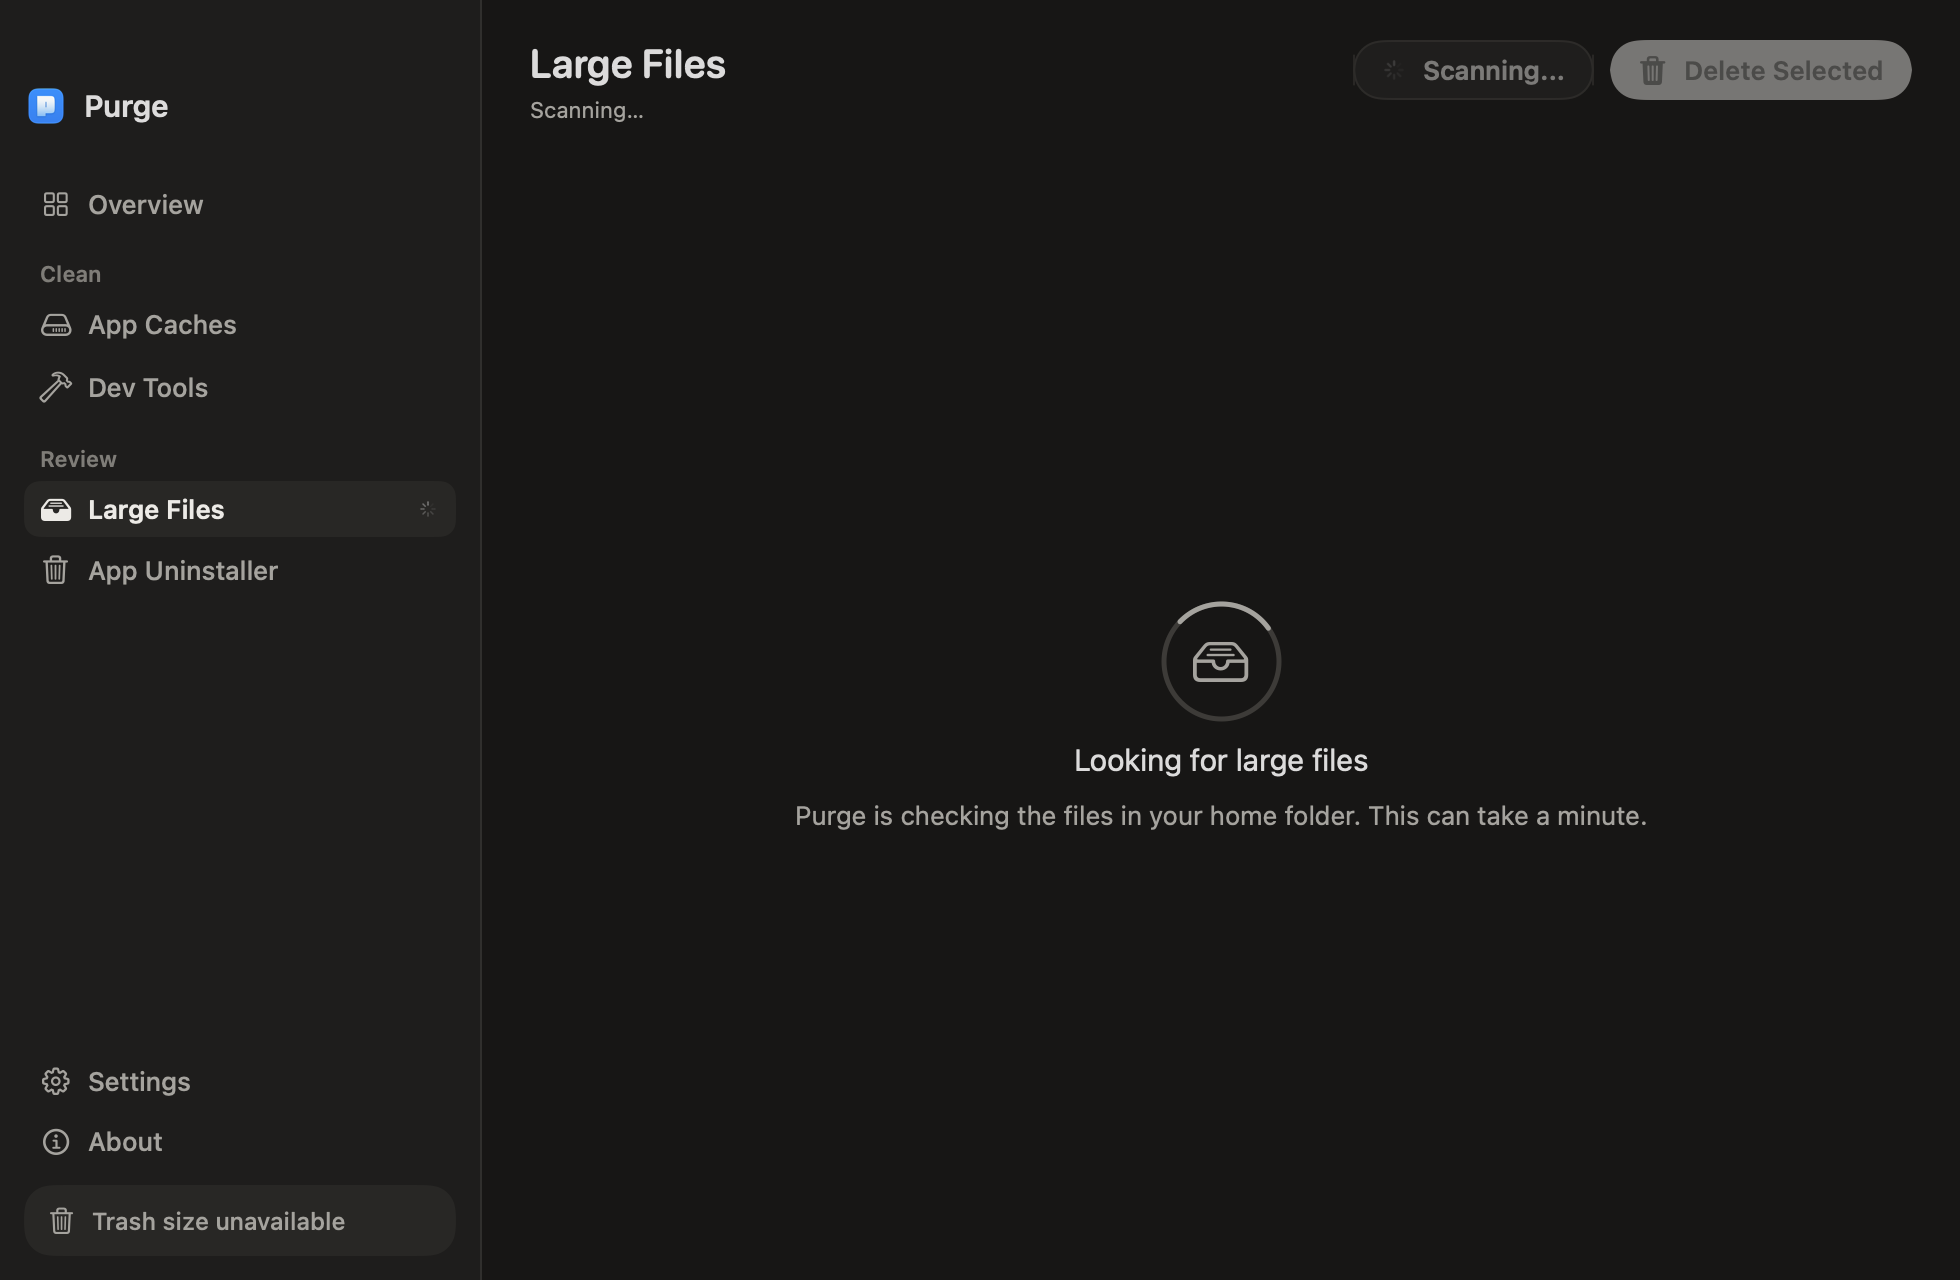
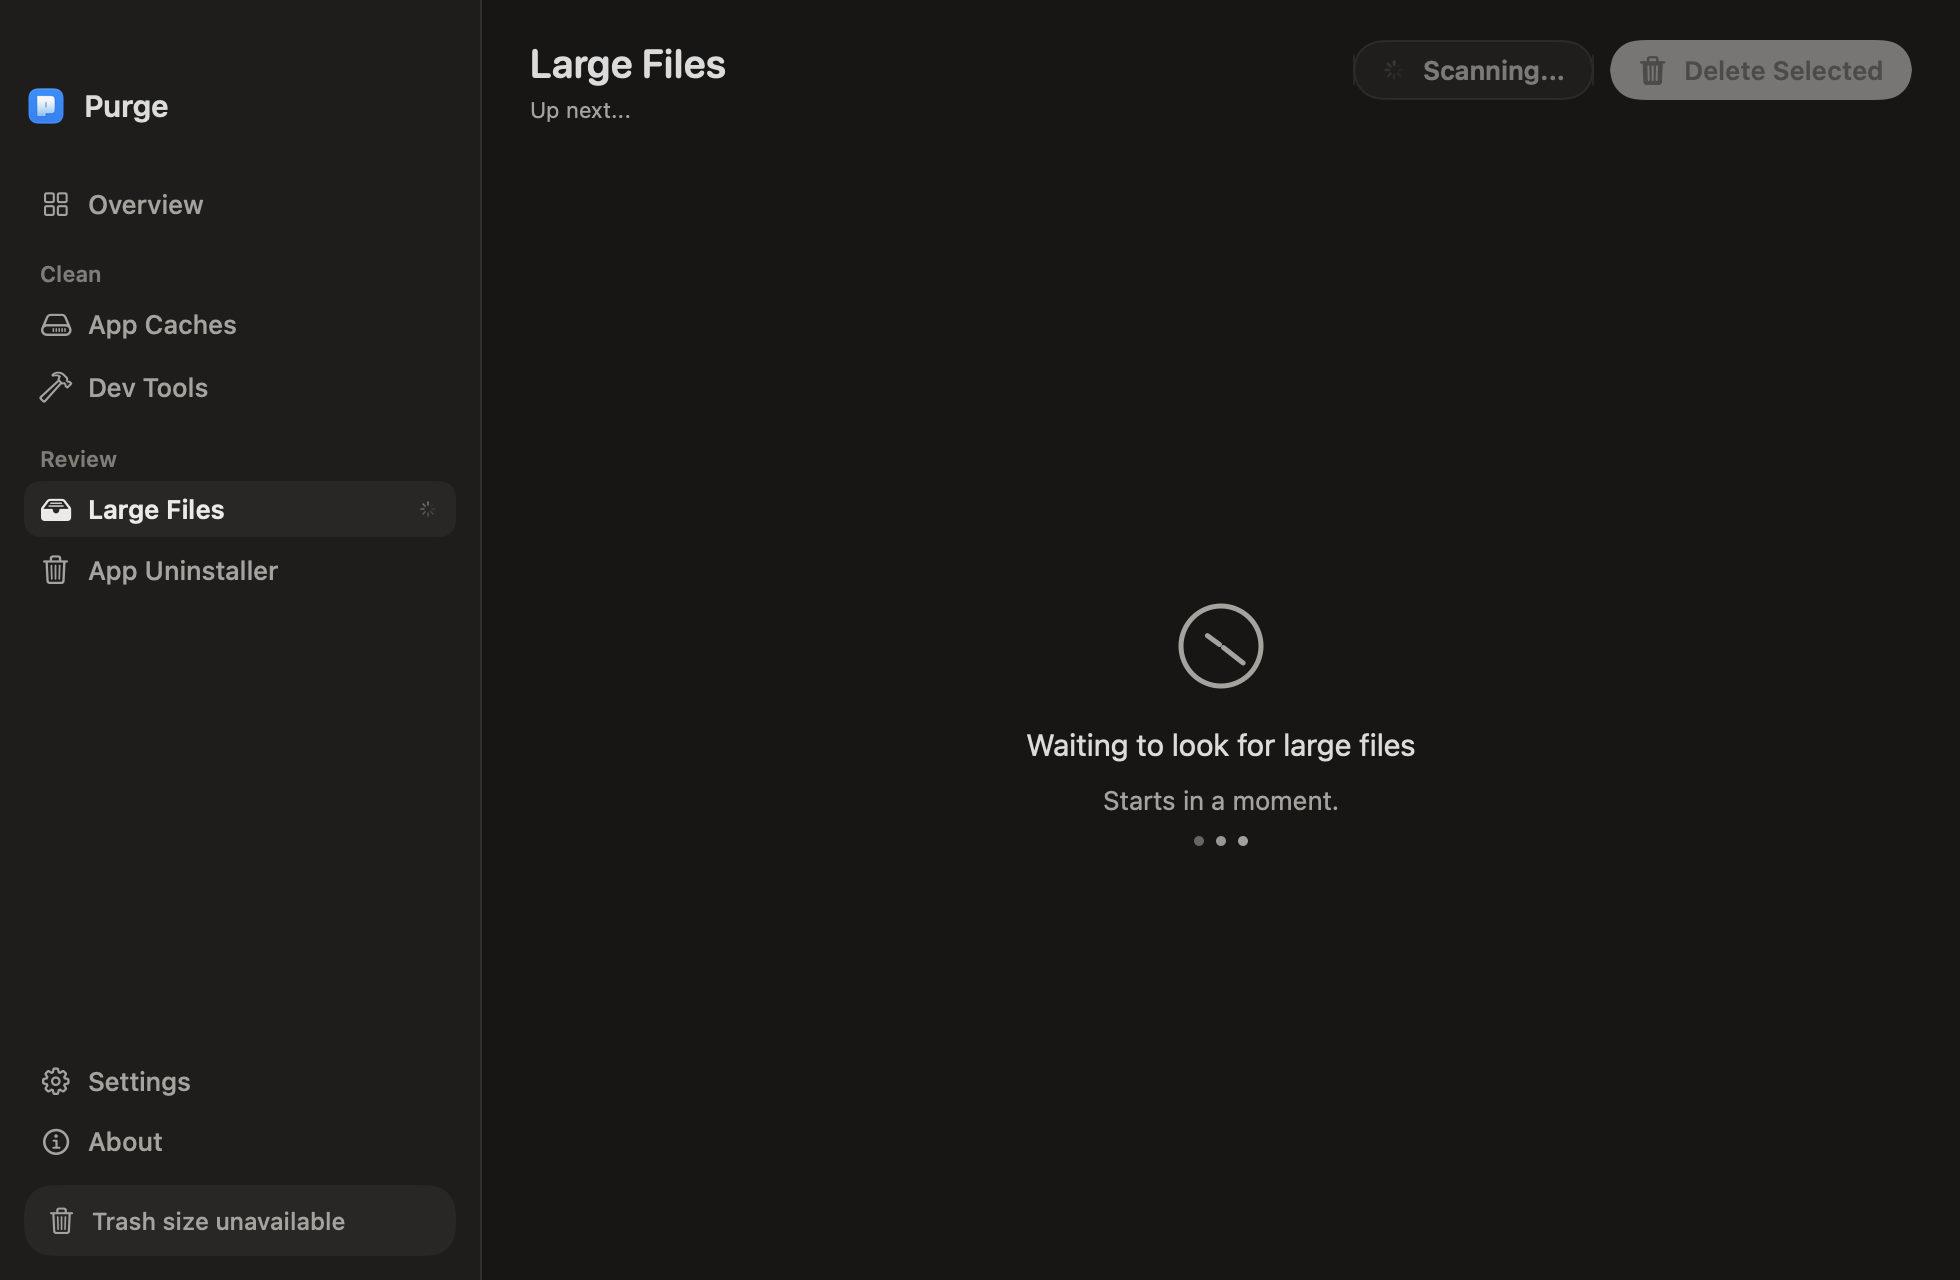
refactor: keep the waiting state while Large Files and apps scans start
Large Files and the uninstaller list their first results as soon as
their scan starts, so their own scanning state never showed. They keep
the waiting clock until rows arrive. Dev Tools keeps its scanning ring.

Changed region(s): [[0.4046, 0.4688, 0.8403, 0.6562], [0.2801, 0.0625, 0.3112, 0.0938]]

diff --git a/purge/Views/ScanStatusPlaceholder.swift b/purge/Views/ScanStatusPlaceholder.swift
@@ -34,58 +34,73 @@ extension PurgeStore {
 
 /// The words each scan tab uses for its wait states.
 struct ScanWaitCopy {
-    /// The symbol the scanning ring turns around: the tab's own icon.
-    let symbol: String
-    let scanningTitle: String
-    let scanningDetail: String
+    /// What a tab shows while its own scan runs with nothing listed yet.
+    struct Scanning {
+        /// The symbol the scanning ring turns around: the tab's own icon.
+        let symbol: String
+        let title: String
+        let detail: String
+    }
+
+    /// Nil for a tab whose scan lists its first results as soon as it starts
+    /// (Large Files, the uninstaller): there the scanning state would only
+    /// flash, so the tab keeps its waiting state until rows arrive.
+    let scanning: Scanning?
     let waitingTitle: String
     let notScannedTitle: String
     let notScannedDetail: String
 
     static let largeFiles = ScanWaitCopy(
-        symbol: "tray.full",
-        scanningTitle: String(localized: "Looking for large files"),
-        scanningDetail: String(localized: "Purge is checking the files in your home folder. This can take a minute."),
+        scanning: nil,
         waitingTitle: String(localized: "Waiting to look for large files"),
         notScannedTitle: String(localized: "Large files not scanned yet"),
         notScannedDetail: String(localized: "Use Scan to look for large files.")
     )
 
     static let apps = ScanWaitCopy(
-        // Not the sidebar's trash can: this is the list of apps being found.
-        symbol: "app",
-        scanningTitle: String(localized: "Finding your apps"),
-        scanningDetail: String(localized: "Purge is checking Applications and your home Applications folder."),
+        scanning: nil,
         waitingTitle: String(localized: "Waiting to find your apps"),
         notScannedTitle: String(localized: "Apps not scanned yet"),
         notScannedDetail: String(localized: "Use Rescan to find your apps.")
     )
 
     static let devTools = ScanWaitCopy(
-        symbol: "hammer",
-        scanningTitle: String(localized: "Looking for developer folders"),
-        scanningDetail: String(localized: "Purge is checking tool caches, simulators, and your projects."),
+        scanning: Scanning(
+            symbol: "hammer",
+            title: String(localized: "Looking for developer folders"),
+            detail: String(localized: "Purge is checking tool caches, simulators, and your projects.")
+        ),
         waitingTitle: String(localized: "Waiting to look for developer folders"),
         notScannedTitle: String(localized: "Dev Tools not scanned yet"),
         notScannedDetail: String(localized: "Use Scan to look for developer folders.")
     )
+
+    /// The state the tab shows: a tab with no scanning state keeps waiting
+    /// while its own scan starts.
+    func shown(_ status: ScanWaitStatus) -> ScanWaitStatus {
+        if status == .scanning, scanning == nil { return .waiting(behind: nil) }
+        return status
+    }
 }
 
-/// The middle of a scan tab before its first results: a ring turning around the
-/// tab's icon or a clock with moving hands, what is happening, and why. No
+/// The middle of a scan tab before its first results: a clock with moving hands
+/// while it waits its turn (and, on Dev Tools, a ring turning around the tab's
+/// icon while it scans), what is happening, and why. No
 /// controls, since there is nothing to act on yet.
 struct ScanStatusPlaceholder: View {
     let status: ScanWaitStatus
     let copy: ScanWaitCopy
 
     /// The page subtitle while the tab waits, in place of a count of nothing.
-    static func subtitle(for status: ScanWaitStatus) -> String {
-        switch status {
+    static func subtitle(for status: ScanWaitStatus, copy: ScanWaitCopy) -> String {
+        switch copy.shown(status) {
         case .scanning: return String(localized: "Scanning…")
         case .waiting: return ScanQueueLabels.queued
         case .notScanned: return String(localized: "Not scanned yet")
         }
     }
+
+    private var shown: ScanWaitStatus { copy.shown(status) }
 
     var body: some View {
         VStack(spacing: 10) {
@@ -96,7 +111,7 @@ struct ScanStatusPlaceholder: View {
             Text(detail)
                 .foregroundStyle(AppColors.textSecondary)
                 .multilineTextAlignment(.center)
-            if case .waiting = status {
+            if case .waiting = shown {
                 WaitingDots()
                     .accessibilityHidden(true)
             }
@@ -108,9 +123,9 @@ struct ScanStatusPlaceholder: View {
 
     @ViewBuilder
     private var symbol: some View {
-        switch status {
+        switch shown {
         case .scanning:
-            ScanningRing(symbol: copy.symbol)
+            ScanningRing(symbol: copy.scanning?.symbol ?? "magnifyingglass")
         case .waiting:
             WaitingClock()
         case .notScanned:
@@ -121,17 +136,17 @@ struct ScanStatusPlaceholder: View {
     }
 
     private var title: String {
-        switch status {
-        case .scanning: return copy.scanningTitle
+        switch shown {
+        case .scanning: return copy.scanning?.title ?? copy.waitingTitle
         case .waiting: return copy.waitingTitle
         case .notScanned: return copy.notScannedTitle
         }
     }
 
     private var detail: String {
-        switch status {
+        switch shown {
         case .scanning:
-            return copy.scanningDetail
+            return copy.scanning?.detail ?? ""
         case .waiting(let behind):
             guard let behind else { return String(localized: "Starts in a moment.") }
             let name = behind.displayName

diff --git a/purge/ContentView.swift b/purge/ContentView.swift
@@ -664,7 +664,8 @@ struct ContentView: View {
             if store.isAwaitingFirstDevToolsScan {
                 let isScanning = store.isScanningDeveloper || store.isScanningAll
                 return ScanStatusPlaceholder.subtitle(
-                    for: store.scanWaitStatus(for: .cachesAndDevTools, isScanning: isScanning)
+                    for: store.scanWaitStatus(for: .cachesAndDevTools, isScanning: isScanning),
+                    copy: .devTools
                 )
             }
             return pageSubtitle(count: devToolsSubtitleItemCount, bytes: devToolsSubtitleTotalSize)
@@ -716,7 +717,8 @@ struct ContentView: View {
     private var largeFilesPageSubtitle: String {
         if store.isAwaitingFirstLargeFileScan {
             return ScanStatusPlaceholder.subtitle(
-                for: store.scanWaitStatus(for: .largeFiles, isScanning: store.isScanningLargeFiles)
+                for: store.scanWaitStatus(for: .largeFiles, isScanning: store.isScanningLargeFiles),
+                copy: .largeFiles
             )
         }
         // An empty result after a finished scan is a statement, not a count of
@@ -763,7 +765,8 @@ struct ContentView: View {
 
         if store.installedApps.isEmpty, !store.hasCompletedInstalledAppsScan {
             return ScanStatusPlaceholder.subtitle(
-                for: store.scanWaitStatus(for: .apps, isScanning: store.isScanningInstalledApps)
+                for: store.scanWaitStatus(for: .apps, isScanning: store.isScanningInstalledApps),
+                copy: .apps
             )
         }
         guard !store.installedApps.isEmpty else { return nil }
